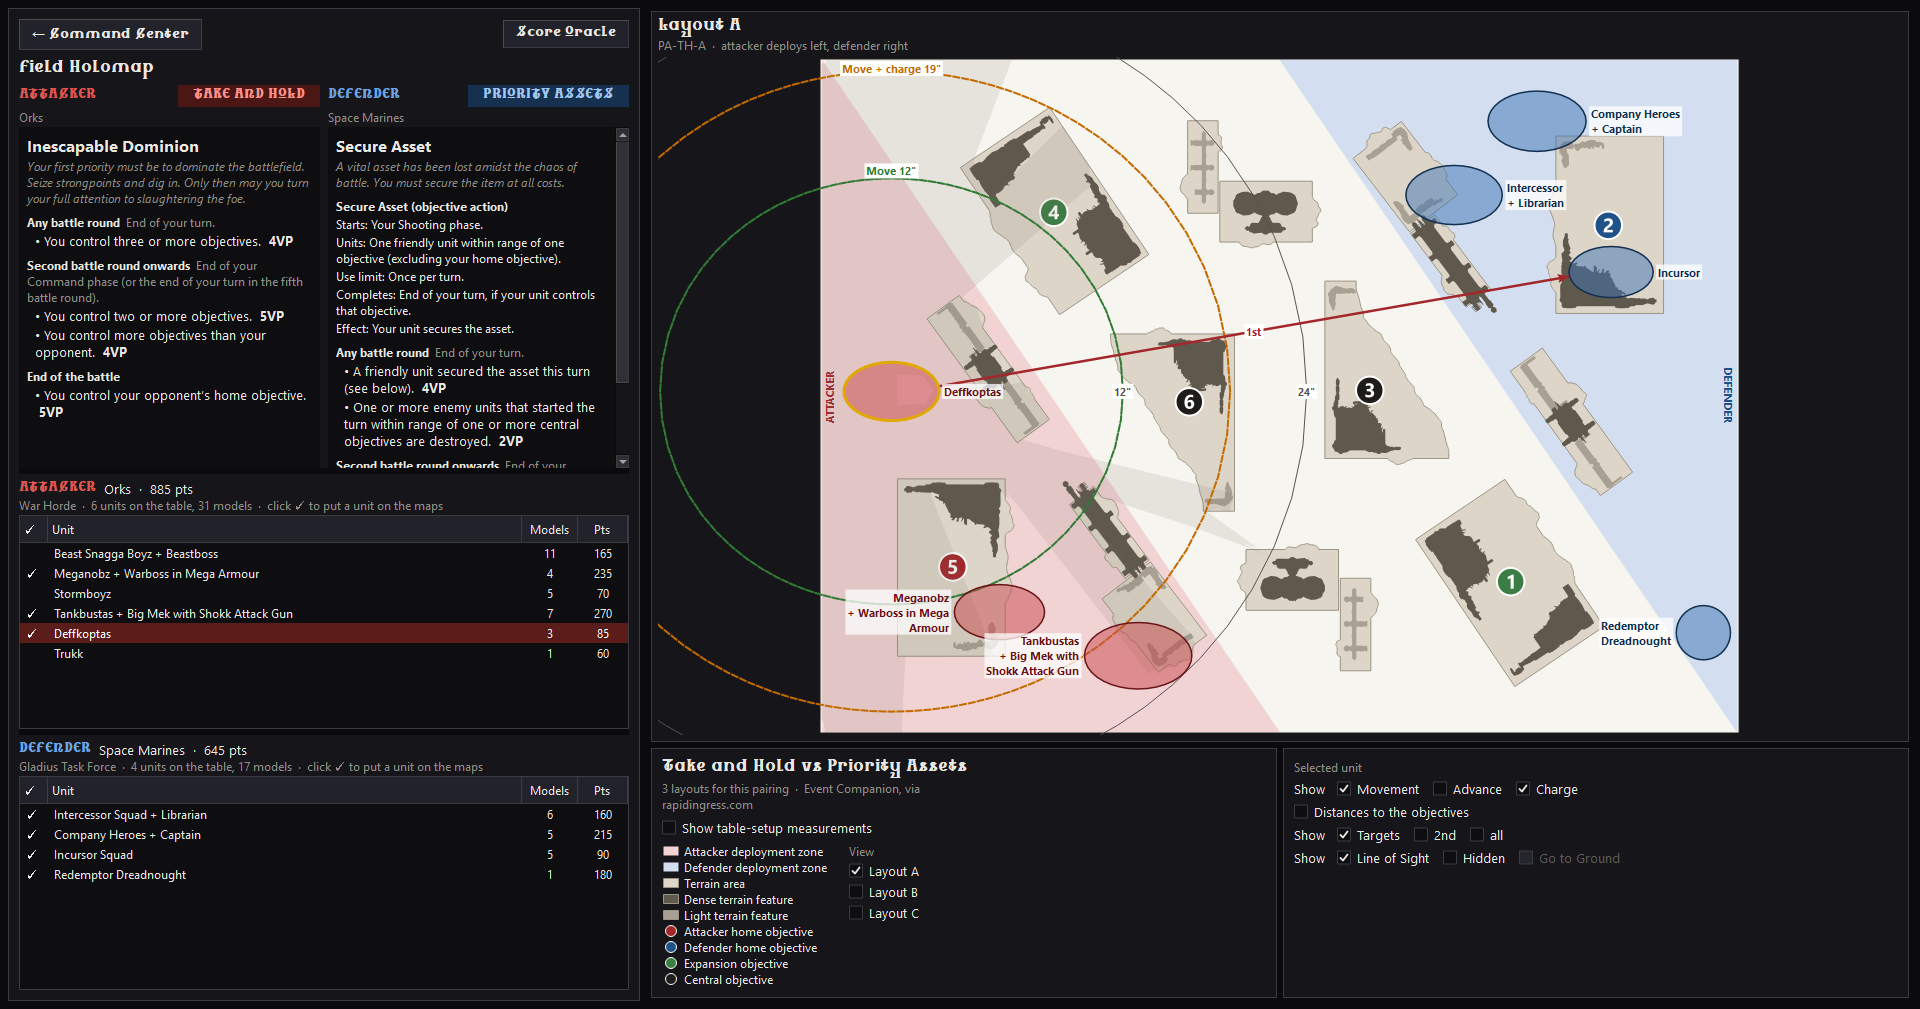
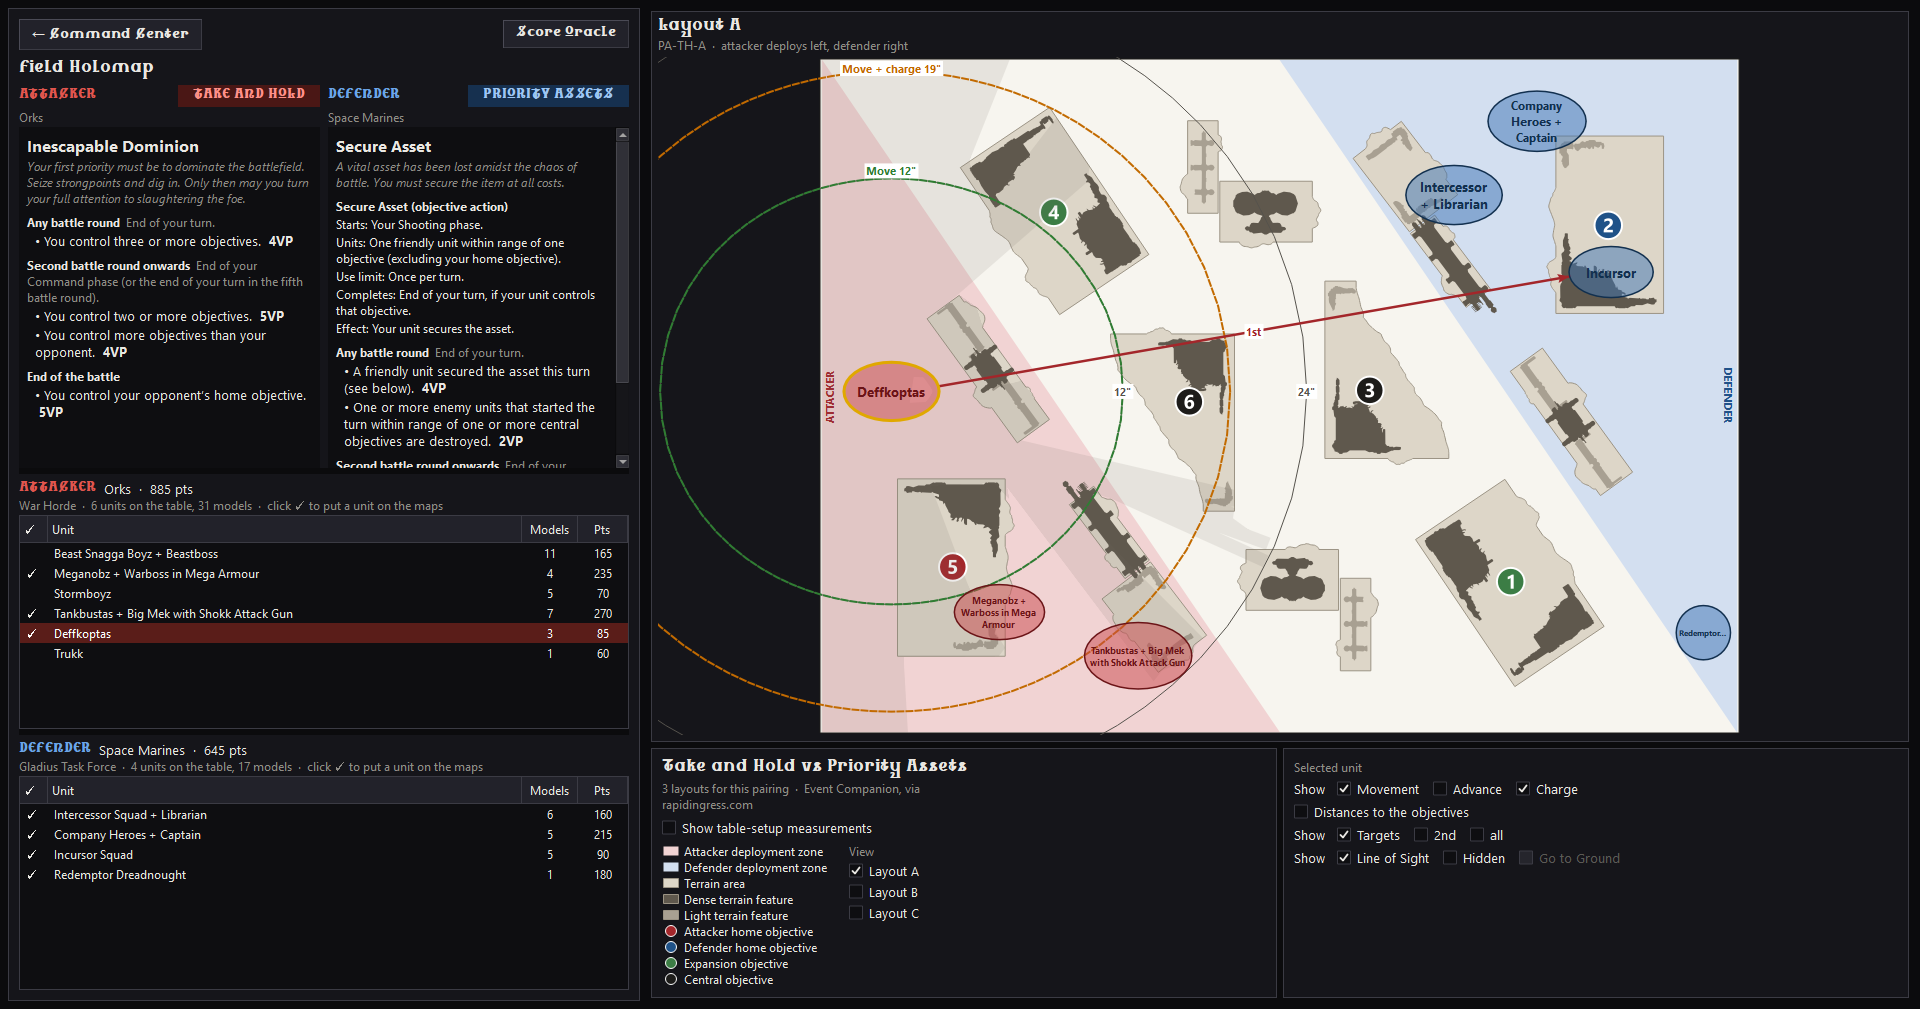
Field Holomap: a unit's name is written inside its base
In place of a tag floating next to the base: the name is written along the
base, as large as fits (10 to 6 points) and on as many lines as that takes;
what does not fit at the smallest size is cut short with an ellipsis
(map_view.fit_label). The whole name is in the unit's tooltip, and under the
map's title while the pointer is on it.

The README's two pictures of the Field Holomap are taken again.

diff --git a/command_center/ui/tools/holomap/map_view.py b/command_center/ui/tools/holomap/map_view.py
@@ -5,6 +5,10 @@ side's deployment zone and can be dragged anywhere on the board, stopping at its
 half see-through so terrain shows underneath. A click selects a token, a double click turns it 30
 degrees clockwise, a right click releases the selection.
 
+A unit's name is written inside its base, along it, as large as fits and on as many lines as that
+takes; what does not fit, even at the smallest size, is cut short with an ellipsis (fit_label). The
+whole name is in the token's tooltip, and under the map's title while the pointer is on it.
+
 For the selected unit the map can also draw its movement rings (move, advance, charge: lines at that
 distance from its footprint edge), the shortest line from it to each objective, an objective being
 the whole terrain its marker stands on (command_center.deploy.objectives), and its line of sight: what it can
@@ -25,7 +29,7 @@ import re
 from dataclasses import dataclass
 
 from PySide6.QtCore import QPointF, QRectF, Qt, QTimer
-from PySide6.QtGui import QColor, QPainter, QPainterPath, QPen, QPolygonF
+from PySide6.QtGui import QColor, QFont, QFontMetricsF, QPainter, QPainterPath, QPen, QPolygonF
 from PySide6.QtWidgets import (QGraphicsItem, QGraphicsPathItem, QGraphicsPolygonItem, QSizePolicy, QVBoxLayout,
                                QWidget)
 
@@ -54,8 +58,9 @@ SEEN_GLOW = 0.4                   # inches: how far the glow reaches around the 
 PLAN_INK = ZONE_INK["attacker"]
 OVERLAY_DELAY = 30                # ms between overlay redraws while dragging
 OVERLAYS = ("move", "advance", "charge", "objectives", "plan", "plan2", "planall", "sight", "hidden", "ground")
-LABEL_WIDTH = 110                 # pixels: longer board labels wrap onto another line
-HALO = QColor(255, 255, 255, 190)     # behind a unit's label: the board shows through a little
+LABEL_SIZES = (10, 9, 8, 7, 6)    # points: the sizes a unit's name is tried at inside its base, the largest first
+LABEL_MARGIN = 2                  # pixels kept clear between the name and the base's edge
+ELLIPSIS = "…"
 Z_OVERLAY, Z_LINK, Z_TOKEN, Z_CHOSEN = 5, 6, 10, 20       # what is drawn over what
 
 
@@ -84,11 +89,68 @@ class Token:
 
 
 def compact_label(name: str) -> str:
-    """Board label: the unit without a trailing "Squad", attached characters on a second line.
-    "Bladeguard Veteran Squad + Sanguinary Priest" -> "Bladeguard Veteran\\n+ Sanguinary Priest"."""
+    """Board label: the unit without a trailing "Squad": "Bladeguard Veteran Squad + Sanguinary Priest" ->
+    "Bladeguard Veteran + Sanguinary Priest"."""
     parts = [p.strip() for p in name.split(" + ")]
-    first = re.sub(r"\s+Squad\b", "", parts[0])
-    return first + ("\n+ " + " + ".join(parts[1:]) if len(parts) > 1 else "")
+    return " + ".join([re.sub(r"\s+Squad\b", "", parts[0])] + parts[1:])
+
+
+def line_widths(n: int, a: float, b: float, line_height: float) -> list[float] | None:
+    """The widths of n lines of text stacked in the middle of an ellipse of half-axes a (along the lines)
+    and b: each as wide as the ellipse is at the line's edge farthest from the centre, less a margin.
+    None when n lines are too tall for it."""
+    widths = []
+    for i in range(n):
+        edge = abs(i - (n - 1) / 2) * line_height + line_height / 2
+        if edge >= b:
+            return None
+        widths.append(2 * a * math.sqrt(1 - (edge / b) ** 2) - 2 * LABEL_MARGIN)
+    return widths
+
+
+def wrap(words: list[str], widths: list[float], width_of) -> tuple[list[str], list[str]]:
+    """Fill lines of the given widths with words, in order: the lines, and the words left over."""
+    lines, rest = [], list(words)
+    for width in widths:
+        line = ""
+        while rest and width_of((line + " " + rest[0]).strip()) <= width:
+            line = (line + " " + rest.pop(0)).strip()
+        if not line:                                    # the next word is wider than this line
+            break
+        lines.append(line)
+    return lines, rest
+
+
+def fit_label(text: str, a: float, b: float, sizes=LABEL_SIZES, family: str = "") -> tuple[QFont, list[str], float] | None:
+    """A name fitted in an ellipse of half-axes a and b pixels, written along a: the font, the lines and
+    the height of a line. The largest size at which the whole name fits, on as few lines as that takes;
+    at the smallest size, what fits of it, cut short with an ellipsis. None when not even a letter fits."""
+    words = text.split()
+    if not words:
+        return None
+    for size in sizes:
+        font = QFont(family or font_family(), size)
+        font.setBold(True)
+        fm = QFontMetricsF(font)
+        height = fm.height()
+        best: tuple[int, list[str], list[str], list[float]] | None = None      # letters placed, lines, words left, widths
+        n = 1
+        while (widths := line_widths(n, a, b, height)) is not None:
+            lines, rest = wrap(words, widths, fm.horizontalAdvance)
+            if not rest:
+                return font, lines, height                  # all of it, at this size
+            placed = sum(len(line) for line in lines)
+            if best is None or placed > best[0]:
+                best = (placed, lines, rest, widths)
+            n += 1
+        if size != sizes[-1] or best is None:
+            continue
+        _, lines, rest, widths = best                       # the smallest size: what fits, then an ellipsis
+        at = max(len(lines) - 1, 0)
+        last = fm.elidedText(" ".join(lines[at:] + rest), Qt.ElideRight, widths[at])
+        if last.strip(ELLIPSIS).strip():
+            return font, lines[:at] + [last], height
+    return None
 
 
 class TokenItem(QGraphicsPolygonItem):
@@ -101,7 +163,9 @@ class TokenItem(QGraphicsPolygonItem):
         self.setFlags(QGraphicsItem.ItemIsMovable | QGraphicsItem.ItemSendsGeometryChanges)
         self.setAcceptHoverEvents(True)
         self.setCursor(Qt.OpenHandCursor)
+        self.setToolTip(token.label)                    # in full: its base may only have room for a part of it
         self.setPos(token.x, token.y)
+        self._name: tuple[tuple, tuple | None] | None = None        # the name as fitted, and the base's size it was fitted to
         self.shape_it()
 
     def shape_it(self):
@@ -114,6 +178,31 @@ class TokenItem(QGraphicsPolygonItem):
         self.setPen(pen)
         self.setBrush(see_through(fill, TOKEN_OPACITY))
         self.setZValue(Z_CHOSEN if chosen else Z_TOKEN)
+
+    def paint(self, painter: QPainter, option, widget=None):
+        """The base, then the unit's name inside it, along it: in pixels, whatever the board's scale."""
+        super().paint(painter, option, widget)
+        t, k = self.token, self.board.view.pixels_per_inch
+        if k <= 0:
+            return
+        a, b = t.footprint.w * k / 2, t.footprint.h * k / 2
+        size = (round(a), round(b))
+        if self._name is None or self._name[0] != size:       # fitted again only when the base changes size on screen
+            self._name = (size, fit_label(compact_label(t.label), a, b))
+        fitted = self._name[1]
+        if not fitted:
+            return
+        font, lines, height = fitted
+        painter.save()
+        painter.scale(1 / k, -1 / k)                        # pixels, y down, around the unit's centre
+        angle = t.angle % 180                               # along the base, and never upside down
+        painter.rotate(angle - 180 if angle > 90 else angle)
+        painter.setFont(font)
+        painter.setPen(QColor(TOKEN[t.role][1]))
+        for i, line in enumerate(lines):
+            y = (i - (len(lines) - 1) / 2) * height
+            painter.drawText(QRectF(-a, y - height / 2, 2 * a, height), Qt.AlignCenter, line)
+        painter.restore()
 
     def itemChange(self, change, value):
         if change == QGraphicsItem.ItemPositionChange:
@@ -161,7 +250,6 @@ class UnitMap(LayoutMap):
         super().__init__()
         self.tokens: dict[str, Token] = {}
         self.items: dict[str, TokenItem] = {}
-        self.labels: dict[str, PixelText] = {}
         self.rng = random.Random()
         self.selected: str | None = None
         self.on_select = None                                       # callback(map, key or None)
@@ -176,7 +264,7 @@ class UnitMap(LayoutMap):
         self._overlay_timer.setSingleShot(True)
         self._overlay_timer.timeout.connect(lambda: self._redraw_overlays(draft=True))
         self._draft = False                                         # the overlays shown were drawn for a unit on the move
-        self.view.scaled.connect(self._place_labels)               # labels are in pixels: placed again at a new scale
+        self.view.scaled.connect(self._rescaled)
         self.view.right_clicked.connect(lambda: self._select(None))
 
     def set_layout(self, layout: dict | None, message: str = "", show_measurements: bool | None = None):
@@ -191,7 +279,7 @@ class UnitMap(LayoutMap):
 
     def draw(self):
         """The layout, then the units on it: drawing the layout clears the scene."""
-        self.items, self.labels, self._overlay_items, self._link_items = {}, {}, [], []
+        self.items, self._overlay_items, self._link_items = {}, [], []
         super().draw()
         if self.layout_data:
             for t in self.tokens.values():
@@ -210,10 +298,9 @@ class UnitMap(LayoutMap):
 
     def remove_token(self, key: str):
         if self.tokens.pop(key, None):
-            for held in (self.items, self.labels):
-                item = held.pop(key, None)
-                if item is not None:
-                    self.scene.removeItem(item)
+            item = self.items.pop(key, None)
+            if item is not None:
+                self.scene.removeItem(item)
             if self.selected == key:
                 self._select(None)
 
@@ -225,42 +312,10 @@ class UnitMap(LayoutMap):
     def _add_item(self, t: Token):
         item = self.items[t.key] = TokenItem(self, t)
         self.scene.addItem(item)
-        self._label(t)
 
-    def _label(self, t: Token):
-        """A unit's label outside its base, on the side of its player's board edge (attacker at the
-        bottom: below the base); on the other side if it would leave the board; never past an edge."""
-        old = self.labels.pop(t.key, None)
-        if old is not None:
-            self.scene.removeItem(old)
-        k = self.view.pixels_per_inch or 1.0
-        bw, bh = t.box
-        edge = (self.layout_data or {}).get(f"{t.role}_edge", "bottom")
-        align = {"left": Qt.AlignRight, "right": Qt.AlignLeft}.get(edge, Qt.AlignHCenter)
-        tag = PixelText(compact_label(t.label), 0, 0, TOKEN[t.role][1], bold=True, back=HALO, align=align,
-                        width=max(LABEL_WIDTH, bw * k))
-        w, h = (d / k for d in tag.size)                        # its size in inches, at this scale
-        gap = 3 / k
-        spots = {"bottom": (t.x, t.y - bh / 2 - gap - h / 2), "top": (t.x, t.y + bh / 2 + gap + h / 2),
-                 "left": (t.x - bw / 2 - gap - w / 2, t.y), "right": (t.x + bw / 2 + gap + w / 2, t.y)}
-        opposite = {"bottom": "top", "top": "bottom", "left": "right", "right": "left"}
-        edge = edge if edge in spots else "bottom"
-        x, y = spots[edge]
-        if not (w / 2 <= x <= BOARD_W - w / 2 and h / 2 <= y <= BOARD_H - h / 2):
-            x, y = spots[opposite[edge]]
-        x = min(max(x, w / 2 + gap), BOARD_W - w / 2 - gap) if w < BOARD_W else BOARD_W / 2     # keep it on the board
-        y = min(max(y, h / 2 + gap), BOARD_H - h / 2 - gap) if h < BOARD_H else BOARD_H / 2
-        tag.setPos(x, y)
-        tag.setZValue((Z_CHOSEN if self.selected == t.key else Z_TOKEN) + 0.5)
-        tag.setAcceptedMouseButtons(Qt.NoButton)                # a click on it goes to what is under it
-        self.scene.addItem(tag)
-        self.labels[t.key] = tag
-
-    def _place_labels(self):
-        for t in self.tokens.values():
-            if t.key in self.items:
-                self._label(t)
-        self._draw_overlays()                                   # their texts are in pixels too
+    def _rescaled(self):
+        """The board is shown at another size: the texts drawn over it are in pixels, and placed again."""
+        self._draw_overlays()
         self._draw_plan_links()
 
     # ---------------------------------------------------------------- selection, moves
@@ -271,7 +326,6 @@ class UnitMap(LayoutMap):
             for k in (was, self.selected):
                 if k in self.items:
                     self.items[k].shape_it()
-                    self._label(self.tokens[k])
             self._draw_overlays()
             self._draw_plan_links()
 
@@ -292,7 +346,6 @@ class UnitMap(LayoutMap):
         item = self.items[key]
         item.shape_it()
         item.setPos(*clamp(t.x, t.y, *t.box))
-        self._label(t)
         self._redraw_overlays()
 
     def move_token(self, key: str, x: float, y: float):
@@ -301,10 +354,8 @@ class UnitMap(LayoutMap):
         self.token_released()
 
     def token_moved(self, t: Token):
-        """A unit is being dragged: its label follows at once; the overlays at most every OVERLAY_DELAY ms,
-        so that mouse events don't queue up behind line of sight computations."""
-        if t.key in self.labels:
-            self._label(t)
+        """A unit is being dragged: the overlays follow at most every OVERLAY_DELAY ms, so that mouse events
+        don't queue up behind line of sight computations."""
         if not self._overlay_timer.isActive():
             self._overlay_timer.start(OVERLAY_DELAY)
 

diff --git a/tests/test_ui_holomap.py b/tests/test_ui_holomap.py
@@ -131,8 +131,7 @@ class HolomapTest(unittest.TestCase):
         self.assertIn("turned 30", m.sub.text())
         m.describe(None)
         self.assertIn(m.layout_data["id"], m.sub.text())
-        label = m.labels[key]                                              # its label stays on the board
-        self.assertTrue(0 <= label.x() <= BOARD_W and 0 <= label.y() <= BOARD_H)
+        self.assertEqual(m.items[key].toolTip(), t.label)                  # its whole name, whatever its base has room for
 
     def test_overlays_of_the_selected_unit(self):
         win = self.win
@@ -196,6 +195,32 @@ class HolomapTest(unittest.TestCase):
         before = len(cast_with)
         m.token_released()                                                 # a plain click: nothing to draw again
         self.assertEqual(len(cast_with), before)
+
+    def test_a_name_is_fitted_in_its_base(self):
+        from command_center.ui.tools.holomap.map_view import ELLIPSIS, LABEL_SIZES, compact_label, fit_label
+        self.assertEqual(compact_label("Intercessor Squad + Librarian"), "Intercessor + Librarian")
+        name = "Meganobz + Warboss in Mega Armour"
+        font, lines, height = fit_label(name, 150, 60)                     # a large base: all of it, at the largest size
+        self.assertEqual((font.pointSize(), " ".join(lines)), (LABEL_SIZES[0], name))
+        font, lines, _ = fit_label(name, 60, 30)                           # a smaller one: all of it still, smaller or on more lines
+        self.assertEqual(" ".join(lines), name)
+        self.assertTrue(font.pointSize() < LABEL_SIZES[0] or len(lines) > 1)
+        font, lines, height = fit_label(name, 34, 14)                      # too small for it: what fits, then an ellipsis
+        self.assertEqual(font.pointSize(), LABEL_SIZES[-1])
+        self.assertTrue(lines[-1].endswith(ELLIPSIS))
+        self.assertTrue(name.startswith(" ".join(lines).rstrip(ELLIPSIS).rstrip()))
+        self.assertLessEqual(len(lines) * height, 2 * 14)                  # never taller than the base
+        self.assertIsNone(fit_label(name, 4, 3))                           # no room for a letter
+        self.assertIsNone(fit_label("", 100, 100))
+        from PySide6.QtGui import QFontMetricsF
+        for a, b in ((150, 60), (60, 30), (34, 14), (20, 20), (90, 12)):   # every line inside the ellipse, at its own height
+            fitted = fit_label(name, a, b)
+            if fitted:
+                font, lines, height = fitted
+                for i, line in enumerate(lines):
+                    edge = abs(i - (len(lines) - 1) / 2) * height + height / 2
+                    self.assertLess(edge, b)
+                    self.assertLessEqual(QFontMetricsF(font).horizontalAdvance(line), 2 * a * (1 - (edge / b) ** 2) ** 0.5 + 0.5)
 
     def test_enemy_units_in_the_line_of_sight_glow(self):
         win = self.win

diff --git a/command_center/README.md b/command_center/README.md
@@ -301,7 +301,10 @@ is its base (Wahapedia's base size); a unit is one ellipse holding every base wi
 between neighbours (Leaders and Support characters included). Models without an
 official base size (vehicles: "Use model") get an oval estimated from their Wounds,
 drawn dashed. Units are half see-through so terrain shows underneath, and new ones are
-placed clear of those already on the board when there is room. Hover a unit for its
+placed clear of those already on the board when there is room. A unit's name is
+written inside its base, along it: as large as fits (10 to 6 points), on as many lines
+as that takes, and cut short with an ellipsis when the base is too small for all of it
+(`map_view.fit_label`). Hover a unit for its whole name, its
 models and size; click to select it (one selection for the window, highlighted in the
 roster), double click to turn it 30° clockwise, right click to release the selection.
 
